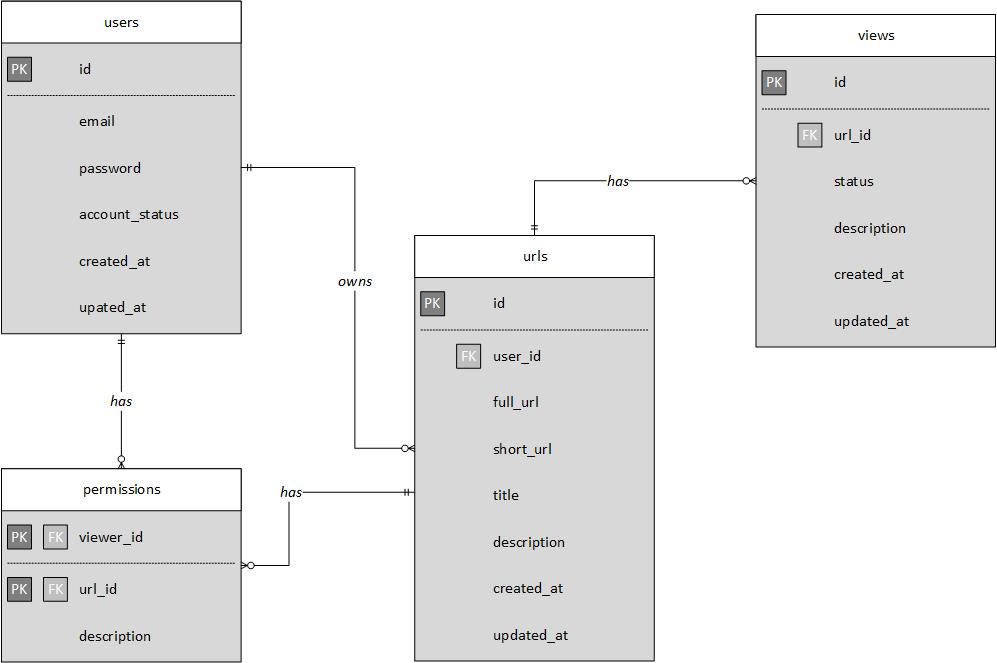
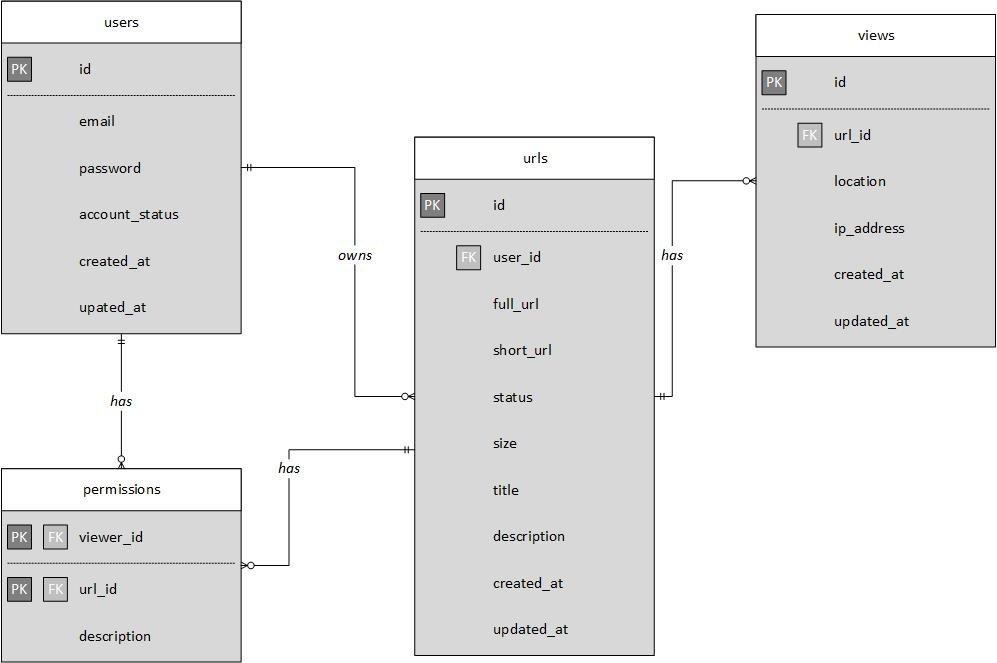
added views controller

diff --git a/controllers/views_controller.rb b/controllers/views_controller.rb
@@ -1,0 +1,29 @@
+# url shortner web service
+class UrlShortnerAPI < Sinatra::Base
+  # store a view (a view is consider as a unique visit)
+  # TODO: check for uniqueness of view through the user
+  
+  get '/api/v1/urls/:id/views/?' do
+    content_type 'application/json'
+
+    url = Url[params[:id]]
+
+    JSON.pretty_generate(data: url.views)
+  end
+
+  post '/api/v1/urls/:id/views/?' do
+    begin
+      new_data = JSON.parse(request.body.read)
+      url = Url[params[:id]]
+      new_view = CreateNewView.call(location: new_data['location'], ip_address: new_data['ip_address'])
+      saved_view = url.add_view(new_view)
+      saved_view.save
+    rescue => e
+      logger.info "FAILED to create new view for url: #{e.inspect}"
+      halt 400
+    end
+    status 201
+    new_location = URI.join(@request_url.to_s + '/', saved_view.id.to_s).to_s
+    headers('Location' => new_location)
+  end
+end

diff --git a/services/create_new_view.rb b/services/create_new_view.rb
@@ -1,0 +1,9 @@
+# Service to save a new view for url
+class CreateNewView
+  def self.call(location:, ip_address:)
+    saved_view = View.new()
+    saved_view.location = location
+    saved_view.ip_address = ip_address
+    saved_view.save
+  end
+end

diff --git a/controllers/init.rb b/controllers/init.rb
@@ -2,3 +2,4 @@ require_relative 'base'
 require_relative 'urls_controller'
 require_relative 'users_controller'
 require_relative 'permissions_controller'
+require_relative 'views_controller'

diff --git a/services/init.rb b/services/init.rb
@@ -1,2 +1,3 @@
 require_relative 'create_new_url'
 require_relative 'create_new_user'
+require_relative 'create_new_view'

diff --git a/README.md b/README.md
@@ -53,6 +53,14 @@ An URL shortner is a service that basically renders a shorter url for the one be
   - SAMPLE REQUEST =>  curl -v -H "Accept: application/json" -H "Content-type: application/json" \ -X POST -d "{\"username\": \"bob\", \"full_url\": \"http://testbob.com\", \"title\": \"urltestbob\", \"description\": \"urltestbob\" }" \http://localhost:9292/api/v1/users/bob/urls
   - DESCRIPTION => Post url for a specific user
 
+- `GET /api/v1/urls/:id/views/?`
+  - RETURN => JSON
+  - DESCRIPTION => Return all views belonging to url
+
+- `POST /api/v1/urls/:id/views/?`
+  - SAMPLE REQUEST => curl -v -H "Accept: application/json" -H "Content-type: application/json" \ -X POST -d "{ \"location\": \"Hsinchu-Taiwan\", \"ip_address\": \"192.168.1.1\" }" \http://localhost:9292/api/v1/urls/1/views/
+  - DESCRIPTION => Post view for a specific url
+
 ## Tux helpful commands
 ```ruby
 tux
